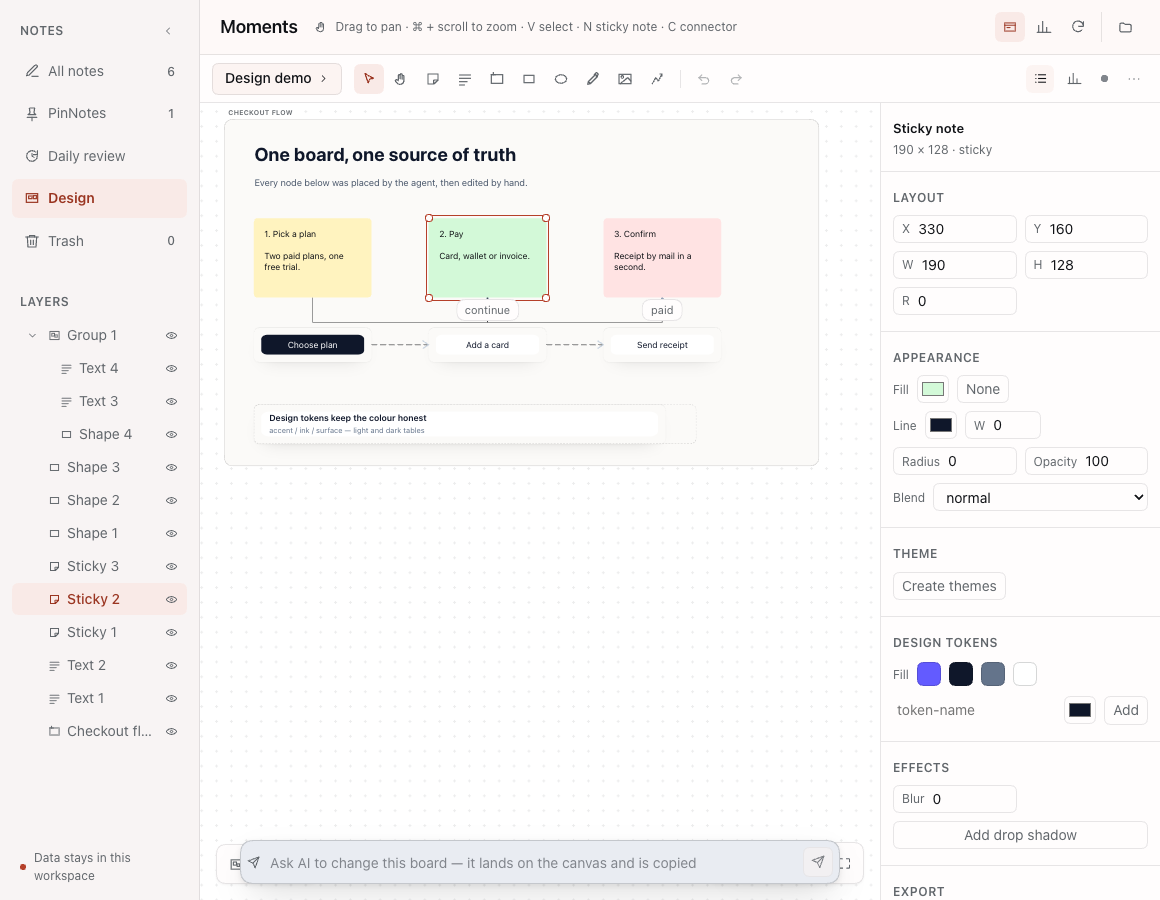
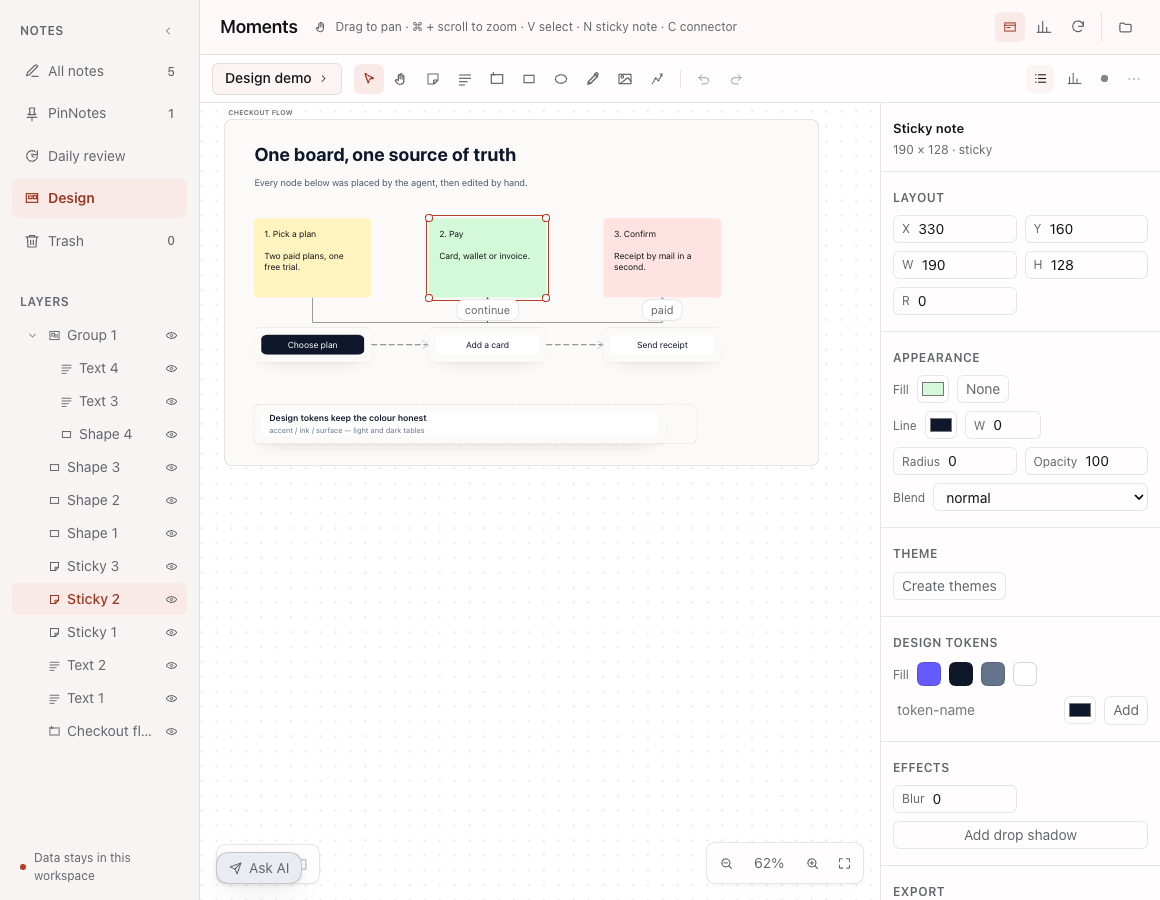
The AI field folds out of the bottom-left corner
The request bar was pinned to the bottom centre, which is where the connector
style panel and the connect hint already live: selecting a connector put that
panel on top of the field. The field is now a small button in the bottom-left
corner and only unfolds when it is opened; it lifts above the connector panel
when that panel is on screen, folds again on send, Escape or the close button,
and the launcher takes the field's name so a screen reader can tell them apart.

Changed region(s): [[0.1862, 0.9333, 0.7138, 0.9956]]

diff --git a/plugin/client.js b/plugin/client.js
@@ -2757,8 +2757,16 @@ window.__ModuleLoader__.load({
         () => readStoredValue('moments-notes:canvas-perf', false) === true,
       );
       const [frameRate, setFrameRate] = useState(null);
-      // The bottom bar's AI field: a request parked on the board and copied.
+      // The AI request field parks a prompt on the board and copies it. It
+      // stays folded behind a button in the bottom-left corner: the canvas has
+      // its own bottom-centre panels (connector styles, connect hint) and a
+      // permanent full-width bar sat underneath them.
       const [aiPrompt, setAiPrompt] = useState('');
+      const [aiOpen, setAiOpen] = useState(false);
+      const aiInputRef = useRef(null);
+      useEffect(() => {
+        if (aiOpen) aiInputRef.current?.focus?.();
+      }, [aiOpen]);
       // Version history: the Host keeps the copies, the panel lists them.
       const figmaRef = useRef(null);
       const [versionsOpen, setVersionsOpen] = useState(false);
@@ -4477,6 +4485,7 @@ window.__ModuleLoader__.load({
         applyDoc((draft) => ({ ...draft, nodes: [...draft.nodes, node] }), { history: true });
         setSelected(new Set([node.id]));
         setAiPrompt('');
+        setAiOpen(false);
         globalThis.navigator?.clipboard?.writeText?.(prompt)?.catch?.(() => {});
         onNotice?.('Request placed on the board and copied — paste it in the chat to run it');
       }, [aiPrompt, applyDoc, onNotice, viewport]);
@@ -6705,31 +6714,62 @@ window.__ModuleLoader__.load({
               ? '已选中起点，点第二个内容完成连线 · Esc 退出'
               : '拖到第二个内容松开即连线，或先点一个再点另一个 · Esc 退出')
           : null,
-        // The bottom bar is the AI entry: a request typed here lands on the
-        // board as a text node and is copied, so the next chat turn can run it.
-        h('div', { className: 'mm-canvas-dock', role: 'search', 'aria-label': 'Ask AI' },
-          h(Icon, { name: 'send', size: 13 }),
-          h('input', {
-            className: 'mm-canvas-ai-input',
-            type: 'text',
-            value: aiPrompt,
-            placeholder: 'Ask AI to change this board — it lands on the canvas and is copied',
-            'aria-label': 'Ask AI to change the board',
-            onChange: (event) => setAiPrompt(event.target.value),
-            onKeyDown: (event) => {
-              if (event.key === 'Enter') {
-                event.preventDefault?.();
-                submitDesignRequest();
-              }
-            },
-          }),
-          h('button', {
+        // The AI entry is a button in the bottom-left corner, not a permanent
+        // bar: the connector style panel and the connect hint own the
+        // bottom-centre strip, and the bar used to sit underneath them.
+        aiOpen
+          ? h('div', {
+            className: cx('mm-canvas-dock', 'is-open', selectedEdgeId && 'is-lifted'),
+            role: 'search',
+            'aria-label': 'Ask AI',
+            onPointerDown: (event) => event.stopPropagation?.(),
+          },
+            h(Icon, { name: 'send', size: 13 }),
+            h('input', {
+              ref: aiInputRef,
+              className: 'mm-canvas-ai-input',
+              type: 'text',
+              value: aiPrompt,
+              placeholder: 'Ask AI to change this board',
+              title: 'The request lands on the board as a note and is copied',
+              'aria-label': 'AI request for this board',
+              onChange: (event) => setAiPrompt(event.target.value),
+              onKeyDown: (event) => {
+                if (event.key === 'Enter') {
+                  event.preventDefault?.();
+                  submitDesignRequest();
+                  return;
+                }
+                if (event.key === 'Escape') {
+                  event.preventDefault?.();
+                  event.stopPropagation?.();
+                  setAiOpen(false);
+                }
+              },
+            }),
+            h('button', {
+              type: 'button',
+              className: 'mm-canvas-ai-send',
+              disabled: !aiPrompt.trim(),
+              onClick: () => submitDesignRequest(),
+              'aria-label': 'Place the request on the board',
+            }, h(Icon, { name: 'send', size: 14 })),
+            h('button', {
+              type: 'button',
+              className: 'mm-canvas-ai-close',
+              onClick: () => setAiOpen(false),
+              'aria-label': 'Close the AI field',
+            }, h(Icon, { name: 'close', size: 14 })))
+          : h('button', {
             type: 'button',
-            className: 'mm-canvas-ai-send',
-            disabled: !aiPrompt.trim(),
-            onClick: () => submitDesignRequest(),
-            'aria-label': 'Place the request on the board',
-          }, h(Icon, { name: 'send', size: 14 }))),
+            className: 'mm-canvas-ai-launcher',
+            onClick: () => setAiOpen(true),
+            'aria-expanded': false,
+            'aria-label': 'Ask AI to change the board',
+            title: 'Ask AI to change this board',
+          },
+            h(Icon, { name: 'send', size: 13 }),
+            h('span', null, 'Ask AI')),
         ),
         );
     }
@@ -7966,8 +8006,17 @@ window.__ModuleLoader__.load({
       .mm-canvas-body.is-inspector .mm-canvas-surface{right:280px}
       .mm-canvas-connect-hint{position:absolute;left:50%;top:16px;transform:translateX(-50%);z-index:4;padding:8px 12px;border:1px solid var(--mm-line-strong);border-radius:var(--dsw-radius-sm);background:var(--mm-overlay);box-shadow:var(--mm-shadow-float);color:var(--dsw-alias-label-primary);font-size:12px;line-height:1.4;white-space:nowrap}
       .mm-canvas-body.is-inspector .mm-canvas-connect-hint{left:calc(50% - 140px)}
-      .mm-canvas-dock{position:absolute;left:50%;bottom:16px;transform:translateX(-50%);z-index:5;display:flex;align-items:center;gap:8px;width:min(600px,calc(100% - 40px));padding:6px;border:1px solid var(--mm-line-strong);border-radius:var(--dsw-radius-lg);background:var(--mm-overlay);box-shadow:var(--mm-shadow-float);color:var(--dsw-alias-label-secondary)}
-      .mm-canvas-body.is-inspector .mm-canvas-dock{left:calc(50% - 140px)}
+      /* The AI field folds out of the bottom-left corner. It is anchored left so
+         the connector style panel, which owns the bottom-centre strip, can never
+         sit on top of it; when a connector is selected the field lifts clear of
+         that panel instead of relying on stacking order. */
+      .mm-canvas-dock{position:absolute;left:16px;bottom:16px;z-index:9;display:flex;align-items:center;gap:8px;width:min(440px,calc(100% - 32px));padding:6px;border:1px solid var(--mm-line-strong);border-radius:var(--dsw-radius-lg);background:var(--mm-overlay);box-shadow:var(--mm-shadow-float);color:var(--dsw-alias-label-secondary)}
+      .mm-canvas-dock.is-lifted{bottom:76px}
+      .mm-canvas-ai-launcher{position:absolute;left:16px;bottom:16px;z-index:9;display:inline-flex;align-items:center;gap:7px;height:32px;padding:0 12px;border:1px solid var(--mm-line-strong);border-radius:999px;background:var(--mm-overlay);box-shadow:var(--mm-shadow-float);color:var(--dsw-alias-label-secondary);font-size:12px;font-weight:500;cursor:pointer;transition:color 100ms ease,border-color 100ms ease}
+      .mm-canvas-ai-launcher:hover{color:var(--dsw-alias-label-primary);border-color:var(--mm-accent-base)}
+      .mm-canvas-ai-launcher:focus-visible{outline:2px solid var(--mm-accent-base);outline-offset:2px}
+      .mm-canvas-ai-close{width:30px;height:30px;flex:none;border:0;border-radius:var(--dsw-radius-sm);background:transparent;color:var(--dsw-alias-label-secondary);display:inline-flex;align-items:center;justify-content:center;cursor:pointer}
+      .mm-canvas-ai-close:hover{background:var(--mm-surface-2);color:var(--dsw-alias-label-primary)}
       .mm-canvas-ai-input{flex:1;min-width:0;height:30px;border:0;background:transparent;color:var(--dsw-alias-label-primary);font:inherit;font-size:13px;outline:none}
       .mm-canvas-ai-input::placeholder{color:var(--dsw-alias-label-tertiary,var(--mm-line-strong))}
       .mm-canvas-ai-send{width:30px;height:30px;flex:none;border:1px solid var(--mm-line);border-radius:var(--dsw-radius-sm);background:var(--mm-surface-2);color:var(--dsw-alias-label-primary);display:inline-flex;align-items:center;justify-content:center;cursor:pointer}
@@ -8001,7 +8050,7 @@ window.__ModuleLoader__.load({
       .mm-inspector-row{display:flex;align-items:center;gap:8px;min-height:28px;min-width:0;flex-wrap:wrap}
       .mm-inspector-row .mm-inspector-select{min-width:0}
       .mm-inspector-section>*{min-width:0}
-      .mm-canvas-dock{max-width:calc(100% - 40px)}
+      .mm-canvas-dock{max-width:calc(100% - 32px)}
       .mm-inspector-color{width:32px;height:28px;padding:2px;border:1px solid var(--mm-line);border-radius:var(--dsw-radius-sm);background:transparent;cursor:pointer}
       .mm-inspector-select{flex:1;height:28px;padding:0 8px;border:1px solid var(--mm-line);border-radius:var(--dsw-radius-sm);background:var(--mm-surface-1);color:var(--dsw-alias-label-primary);font:inherit;font-size:12px}
       .mm-inspector-chip{height:auto;min-height:28px;padding:2px 8px;border:1px solid var(--mm-line);border-radius:var(--dsw-radius-sm);background:transparent;color:var(--dsw-alias-label-secondary);font:inherit;font-size:12px;cursor:pointer}

diff --git a/plugin/tests/canvas-client.test.js b/plugin/tests/canvas-client.test.js
@@ -4201,7 +4201,7 @@ test('the inspector edits the selected node and can be closed', async () => {
 
 
 
-test('the bottom bar parks an AI request on the board', async () => {
+test('the AI field folds out of the bottom-left corner and parks a request on the board', async () => {
   const document = {
     version: 1, id: 'c1', title: 'Dock', createdAt: 1, updatedAt: 2,
     camera: { x: 0, y: 0, zoom: 1 },
@@ -4212,10 +4212,18 @@ test('the bottom bar parks an AI request on the board', async () => {
   try {
     renderMain(plugin)
     await enterCanvasMode(plugin)
-    const dock = findByClass(plugin.renderer.root, 'mm-canvas-dock')
-    assert.ok(dock, 'the bottom bar is docked on the canvas')
+    // Folded by default: the canvas keeps the bottom-centre strip for its own
+    // connector panels, so a request bar must not claim it permanently.
+    assert.equal(findByClass(plugin.renderer.root, 'mm-canvas-dock'), null, 'the field starts folded')
+    const launcher = findByClass(plugin.renderer.root, 'mm-canvas-ai-launcher')
+    assert.ok(launcher, 'the bottom-left corner offers the AI launcher')
+    launcher.props.onClick()
+    await settle(plugin, 2)
 
-    const field = findAll(plugin.renderer.root, (element) => element.props?.['aria-label'] === 'Ask AI to change the board')[0]
+    const dock = findByClass(plugin.renderer.root, 'mm-canvas-dock')
+    assert.ok(dock, 'the field unfolds on the canvas')
+
+    const field = findAll(plugin.renderer.root, (element) => element.props?.['aria-label'] === 'AI request for this board')[0]
     assert.ok(field, 'the bar offers an AI field')
     field.props.onChange({ target: { value: 'Make the hero section calmer' } })
     await settle(plugin, 2)
@@ -4227,8 +4235,8 @@ test('the bottom bar parks an AI request on the board', async () => {
     const texts = findAll(plugin.renderer.root, (element) => element.props?.['data-node-type'] === 'text')
     const parked = texts.some((element) => toMarkup(element).includes('Make the hero section calmer'))
     assert.ok(parked, 'the request becomes a text node on the board')
-    const cleared = findAll(plugin.renderer.root, (element) => element.props?.['aria-label'] === 'Ask AI to change the board')[0]
-    assert.equal(cleared.props.value, '', 'the field clears after sending')
+    assert.equal(findAll(plugin.renderer.root, (element) => element.props?.['aria-label'] === 'AI request for this board').length, 0, 'the field folds again after sending')
+    assert.ok(findByClass(plugin.renderer.root, 'mm-canvas-ai-launcher'), 'the launcher comes back')
 
     const htmlExport = findAll(plugin.renderer.root, (element) => element.props?.['aria-label'] === 'Export HTML and CSS')[0]
     assert.ok(htmlExport, 'the inspector offers the HTML handoff')
